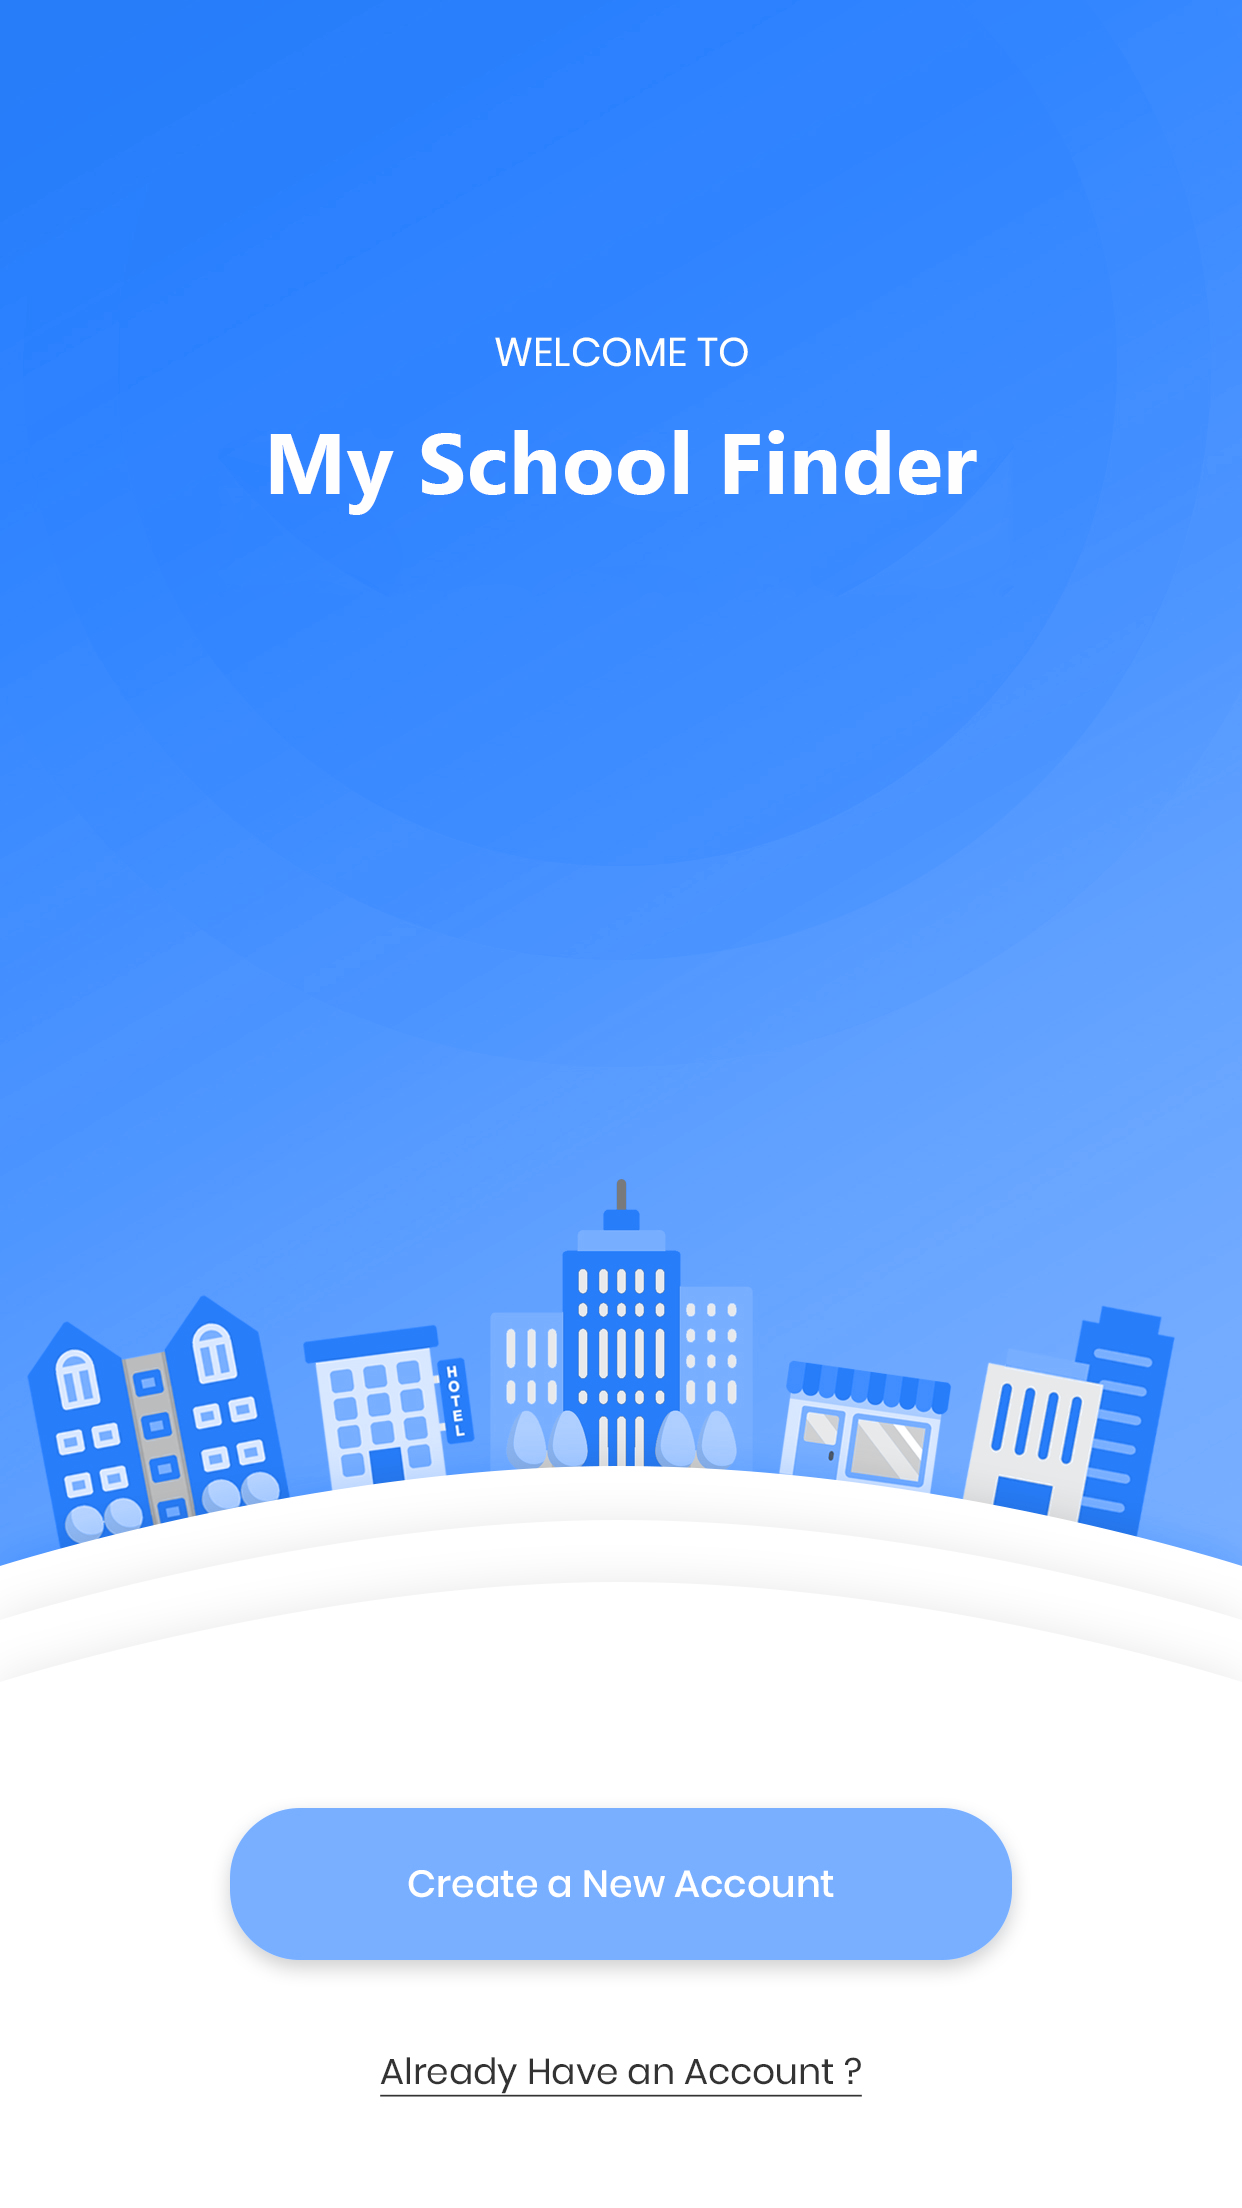
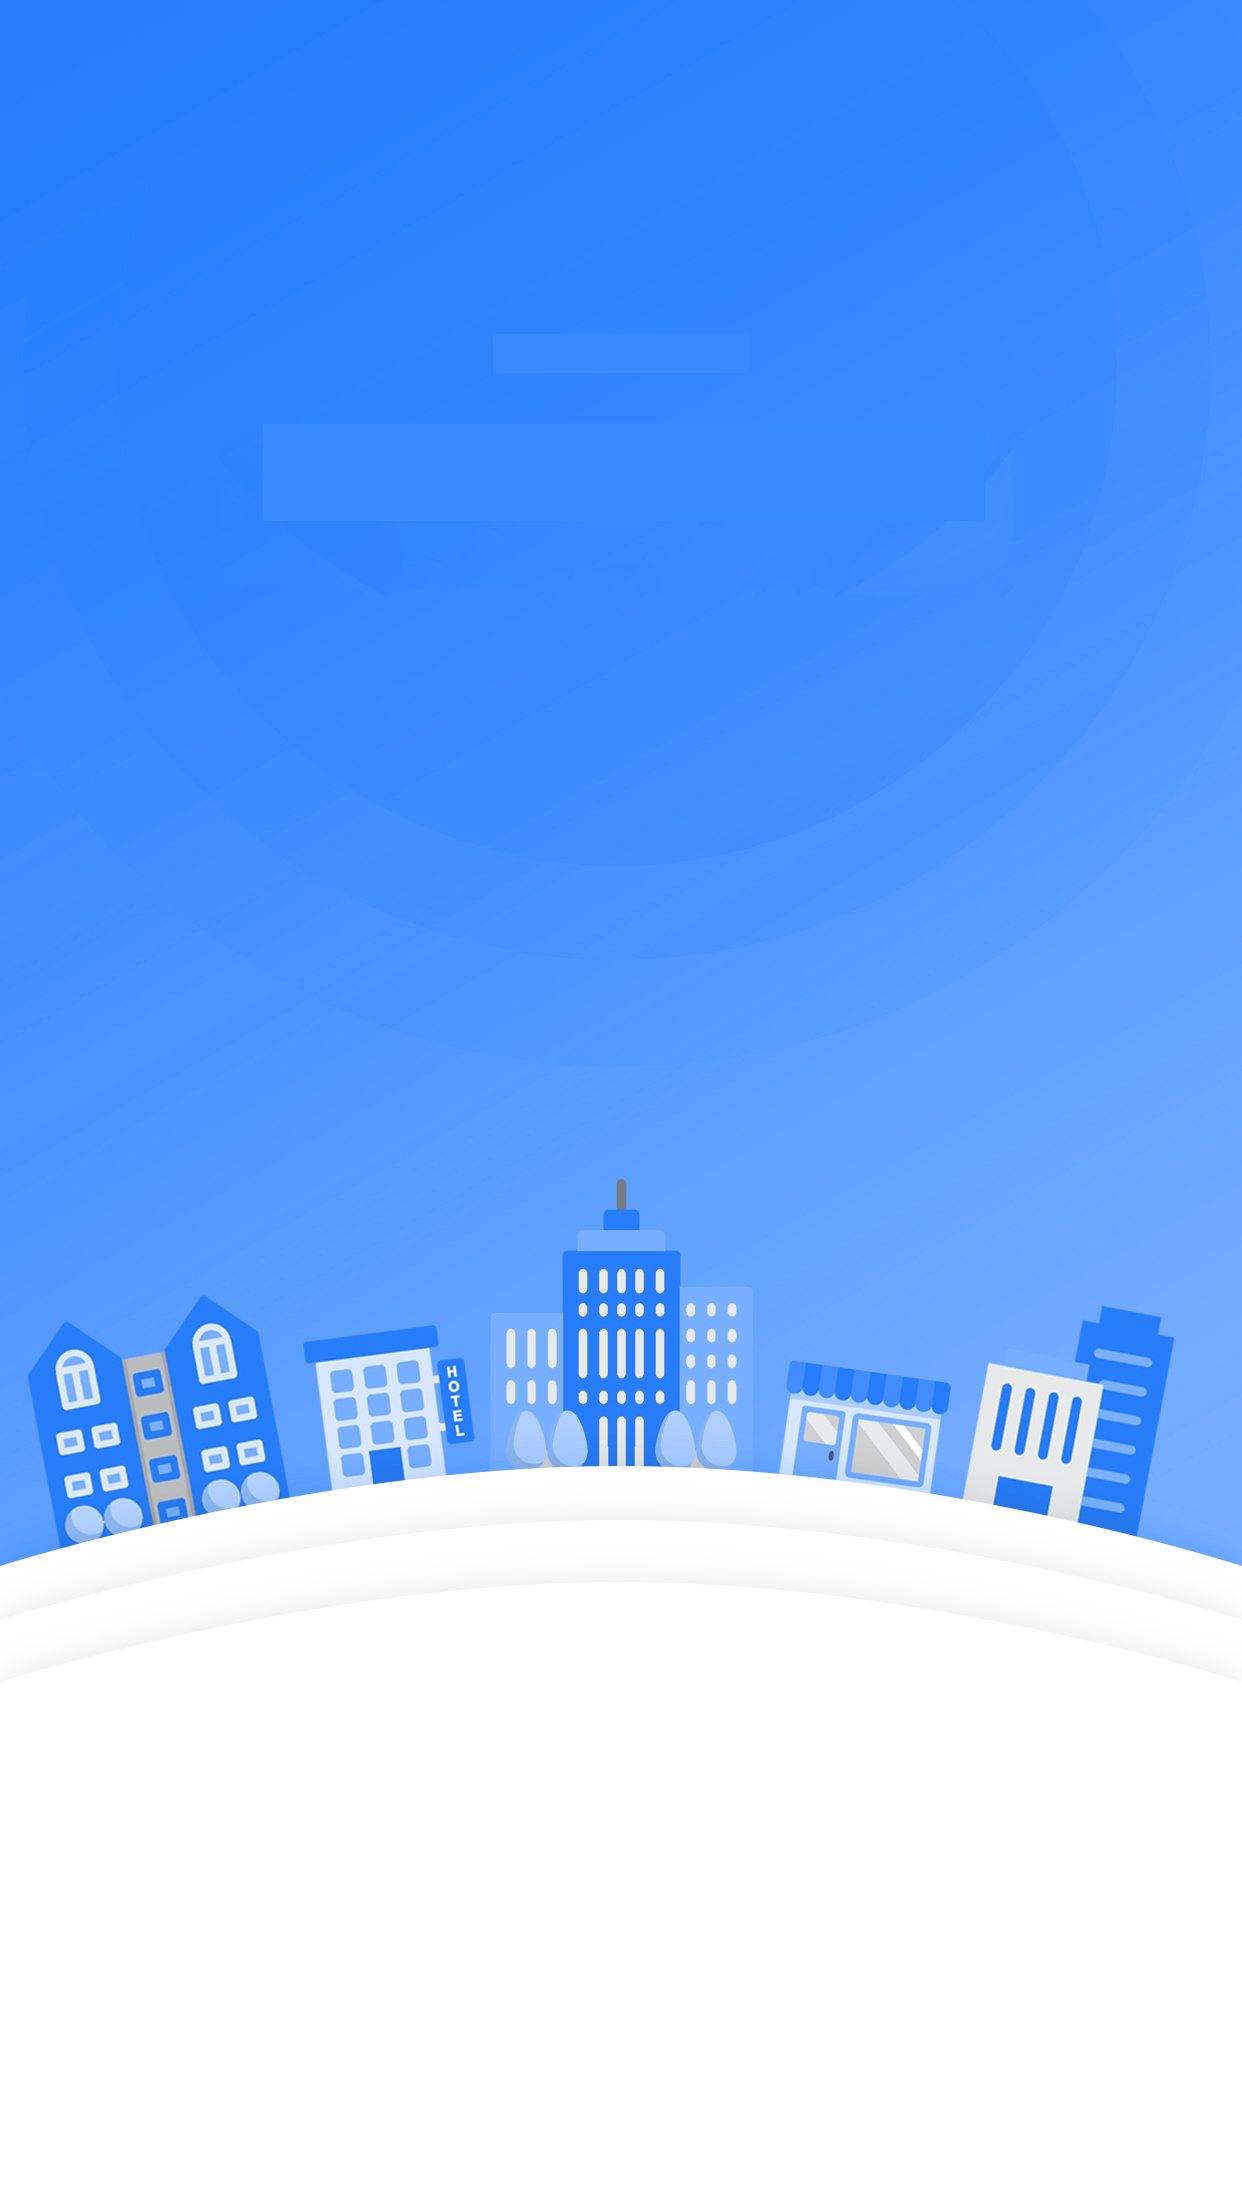
Splash Screen Finalized
Splash Screen Finalized with animated text widget.

diff --git a/lib/screens/welcome.dart b/lib/screens/welcome.dart
@@ -15,7 +15,7 @@ class WelcomeScreen extends StatelessWidget {
 
         decoration: BoxDecoration(
           image: DecorationImage(
-            image: AssetImage('assets/images/bg.png'),
+            image: AssetImage('assets/images/welcome.png'),
             fit: BoxFit.cover,
           ),
         ),
@@ -27,81 +27,83 @@ class WelcomeScreen extends StatelessWidget {
         // ),
         height: MediaQuery.of(context).size.height,
         width: MediaQuery.of(context).size.width,
-        child: Column(
-          mainAxisAlignment: MainAxisAlignment.spaceEvenly,
+        child: Stack()
 
-          children: [
-            Text("Welcome To",
-              style: TextStyle(
-                  fontSize: 18 ,
-                  fontFamily: 'ss',
-                  fontWeight: FontWeight.w400,
-                color: Colors.white
-
-              ),
-
-            ),
-
-            SizedBox(height: 10.0),
-            Text("Find My School",
-              style: TextStyle(
-                  fontSize: 22 ,
-                  fontFamily: 'ss',
-                  fontWeight: FontWeight.bold,
-                  color: Colors.white
-
-              ),
-
-            ),
-            SizedBox(height: 10.0),
-            RaisedButton(onPressed: (){
-              Navigator.push(
-                  context,
-                  PageTransition(
-                      type: PageTransitionType.fade,
-                      duration: Duration(milliseconds: 500),
-                      child: SignUpScreen()));
-            }
-
-            , child: Text("Create a New Account", style: ButtonTextStyle,),
-              elevation: 2.0,
-              highlightElevation: 8.0,
-              color: buttonColor,
-              textColor: Colors.white,
-              splashColor: Colors.blue[200],
-              hoverElevation: 8.0,
-              hoverColor: Colors.green,
-              padding: EdgeInsets.only(left: 25.0,right: 25.0),
-
-              shape: RoundedRectangleBorder(
-                  borderRadius: BorderRadius.circular(18.0),
-
-                  //side: BorderSide(color: Colors.red)
-              ),
-            ),
-
-            GestureDetector(
-
-              onTap: (){
-                Navigator.push(
-                    context,
-                    PageTransition(
-                        type: PageTransitionType.fade,
-                        duration: Duration(milliseconds: 500),
-                        child: LoginScreen()));
+          //fit: StackFit.loose,
 
 
-
-              },
-              child: Text(
-                "Already Have an Account?",
-                style: LinkTextStyle,
-
-              ),
-            )
+            // Text("Welcome To",
+            //   style: TextStyle(
+            //       fontSize: 30 ,
+            //       fontFamily: 'ss',
+            //       fontWeight: FontWeight.w200,
+            //       color: Colors.white
+            //
+            //   ),
+            //
+            // ),
+            //
+            // SizedBox(height: 10.0),
+            // Text("Find My School",
+            //   style: TextStyle(
+            //       fontSize: 22 ,
+            //       fontFamily: 'ss',
+            //       fontWeight: FontWeight.bold,
+            //       color: Colors.white
+            //
+            //   ),
+            //
+            // ),
+            // SizedBox(height: 10.0),
+            // RaisedButton(onPressed: (){
+            //   Navigator.push(
+            //       context,
+            //       PageTransition(
+            //           type: PageTransitionType.fade,
+            //           duration: Duration(milliseconds: 500),
+            //           child: SignUpScreen()));
+            // }
+            //
+            //   , child: Text("Create a New Account", style: ButtonTextStyle,),
+            //   elevation: 2.0,
+            //   highlightElevation: 8.0,
+            //   color: buttonColor,
+            //   textColor: Colors.white,
+            //   splashColor: Colors.blue[200],
+            //   hoverElevation: 8.0,
+            //   hoverColor: Colors.green,
+            //   padding: EdgeInsets.only(left: 25.0,right: 25.0),
+            //
+            //   shape: RoundedRectangleBorder(
+            //     borderRadius: BorderRadius.circular(18.0),
+            //
+            //     //side: BorderSide(color: Colors.red)
+            //   ),
+            // ),
+            //
+            // GestureDetector(
+            //
+            //   onTap: (){
+            //     Navigator.push(
+            //         context,
+            //         PageTransition(
+            //             type: PageTransitionType.fade,
+            //             duration: Duration(milliseconds: 500),
+            //             child: LoginScreen()));
+            //
+            //
+            //
+            //   },
+            //   child: Text(
+            //     "Already Have an Account?",
+            //     style: LinkTextStyle,
+            //
+            //   ),
+            // )
             //Image.asset('assets/images/welcome.png', fit: BoxFit.cover,),
 
-          ],
+
+
 
         ),
         //   Image.asset(
@@ -109,7 +111,6 @@ class WelcomeScreen extends StatelessWidget {
         //   //   fit: BoxFit.cover,
         //   // ),
         // ),
-      ),
-    );
+      );
   }
 }

diff --git a/lib/screens/splash.dart b/lib/screens/splash.dart
@@ -1,25 +1,57 @@
 import 'package:FindMySchool/screens/introduction.dart';
+import 'package:FindMySchool/theme/colors.dart';
+import 'package:animated_text_kit/animated_text_kit.dart';
 import 'package:flutter/material.dart';
 import 'package:page_transition/page_transition.dart';
 
 class Splash extends StatelessWidget {
   @override
   Widget build(BuildContext context) {
-    Future.delayed(Duration(seconds: 2), () {
+    Future.delayed(Duration(milliseconds: 2800), () {
       Navigator.pushReplacement(
           context,
           PageTransition(
               type: PageTransitionType.fade,
-              duration: Duration(milliseconds: 500),
+              duration: Duration(milliseconds: 900),
               child: Introduction()));
     });
     return Scaffold(
       body: Container(
         height: MediaQuery.of(context).size.height,
         width: MediaQuery.of(context).size.width,
-        child: Image.asset(
-          'assets/images/splash.png',
-          fit: BoxFit.cover,
+        child: Stack(
+
+          fit: StackFit.expand,
+          children: [
+
+            Image.asset(
+              'assets/images/splash.png',
+              fit: BoxFit.cover,
+            ),
+            Padding(
+              padding: const EdgeInsets.only(bottom : 450.0),
+              child: Center(
+
+                  child: TextLiquidFill(
+                    loadDuration: Duration(seconds: 2),
+
+                    textAlign: TextAlign.center,
+                    text: 'Find My School',
+
+                    waveColor: Colors.blue[700],
+                    boxBackgroundColor: Colors.white,
+                    textStyle: TextStyle(
+                      fontSize: 50.0,
+                      fontWeight: FontWeight.bold,
+                      fontFamily: 'ss',
+                      color: Colors.black,
+
+                    ),
+              ),
+            ),
+            )
+
+          ],
         ),
       ),
     );

diff --git a/lib/screens/introduction.dart b/lib/screens/introduction.dart
@@ -49,7 +49,7 @@ class Introduction extends StatelessWidget {
         child: IntroductionScreen(
             done: Text(
               "Get Started",
-              style: TextStyle(fontFamily: 'ss', fontSize: 15),
+              style: TextStyle(fontFamily: 'ss', fontSize: 18, fontWeight: FontWeight.bold),
             ),
             onDone: () {
               // Within the `FirstRoute` widget
@@ -65,10 +65,10 @@ class Introduction extends StatelessWidget {
             showSkipButton: true,
             skip: Text(
               "Skip",
-              style: TextStyle(fontFamily: 'ss', fontSize: 15),
+              style: TextStyle(fontFamily: 'ss', fontSize: 18, fontWeight: FontWeight.bold),
             ),
             showNextButton: true,
-            next: const Text("Next"),
+            next: const Text("Next", style: TextStyle(fontFamily: 'ss', fontSize: 18, fontWeight: FontWeight.bold),),
             dotsDecorator: DotsDecorator(
               size: const Size.square(10.0),
               activeSize: const Size(20.0, 10.0),
